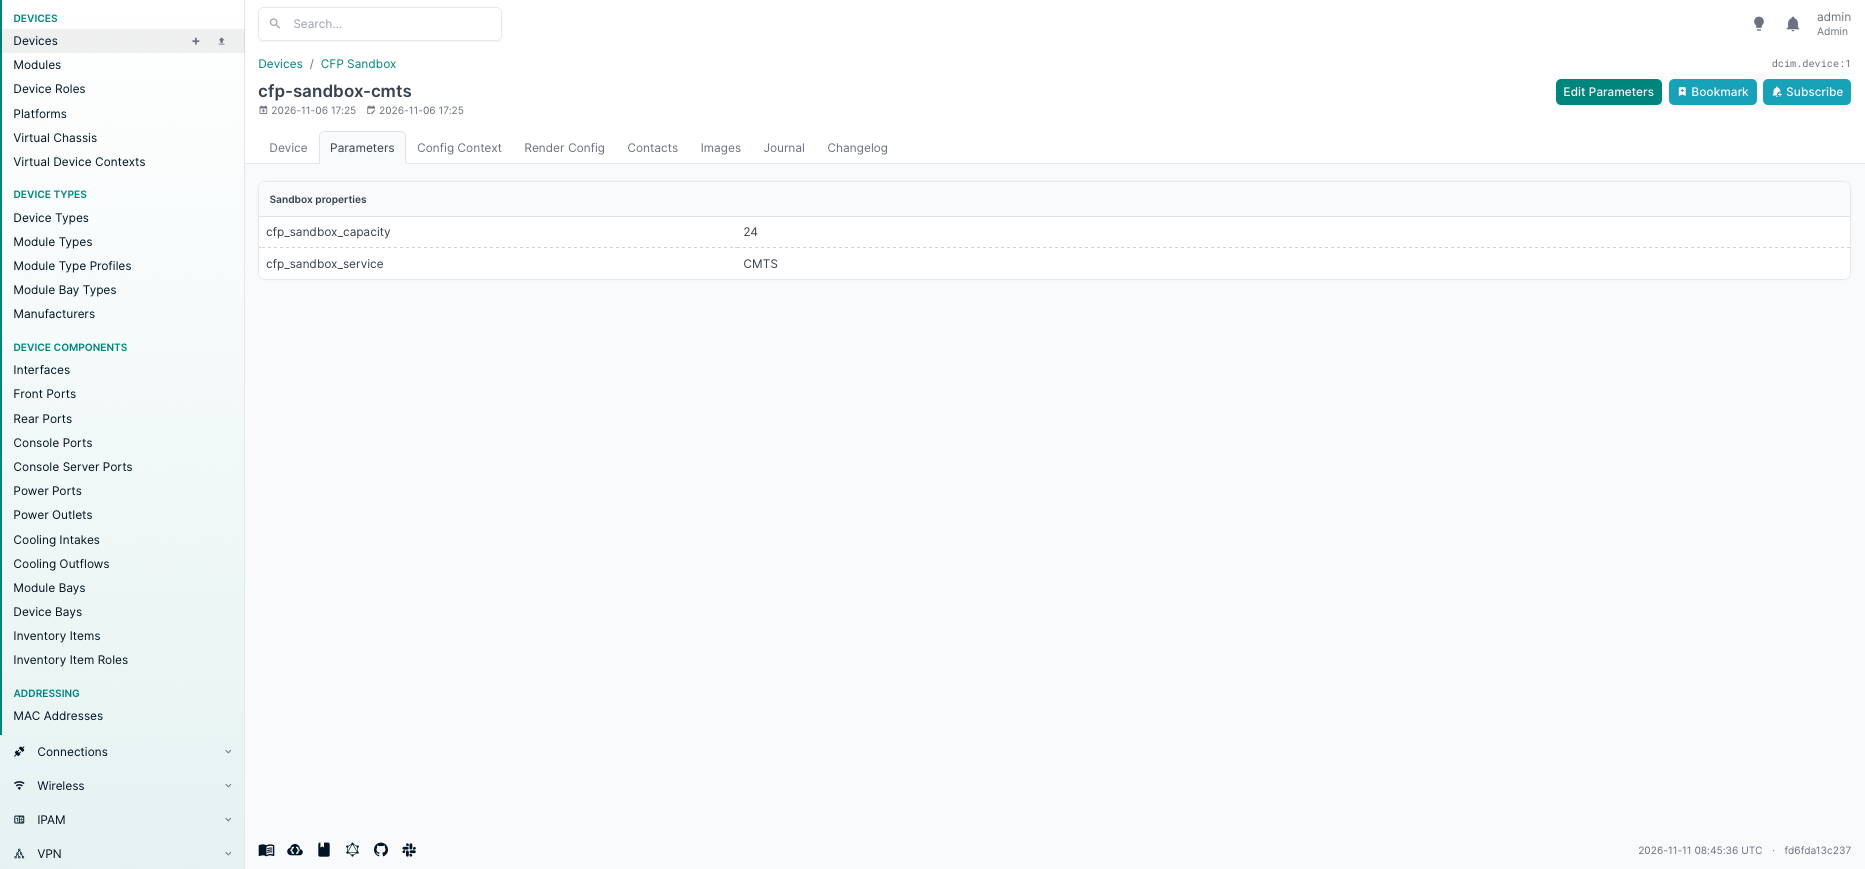
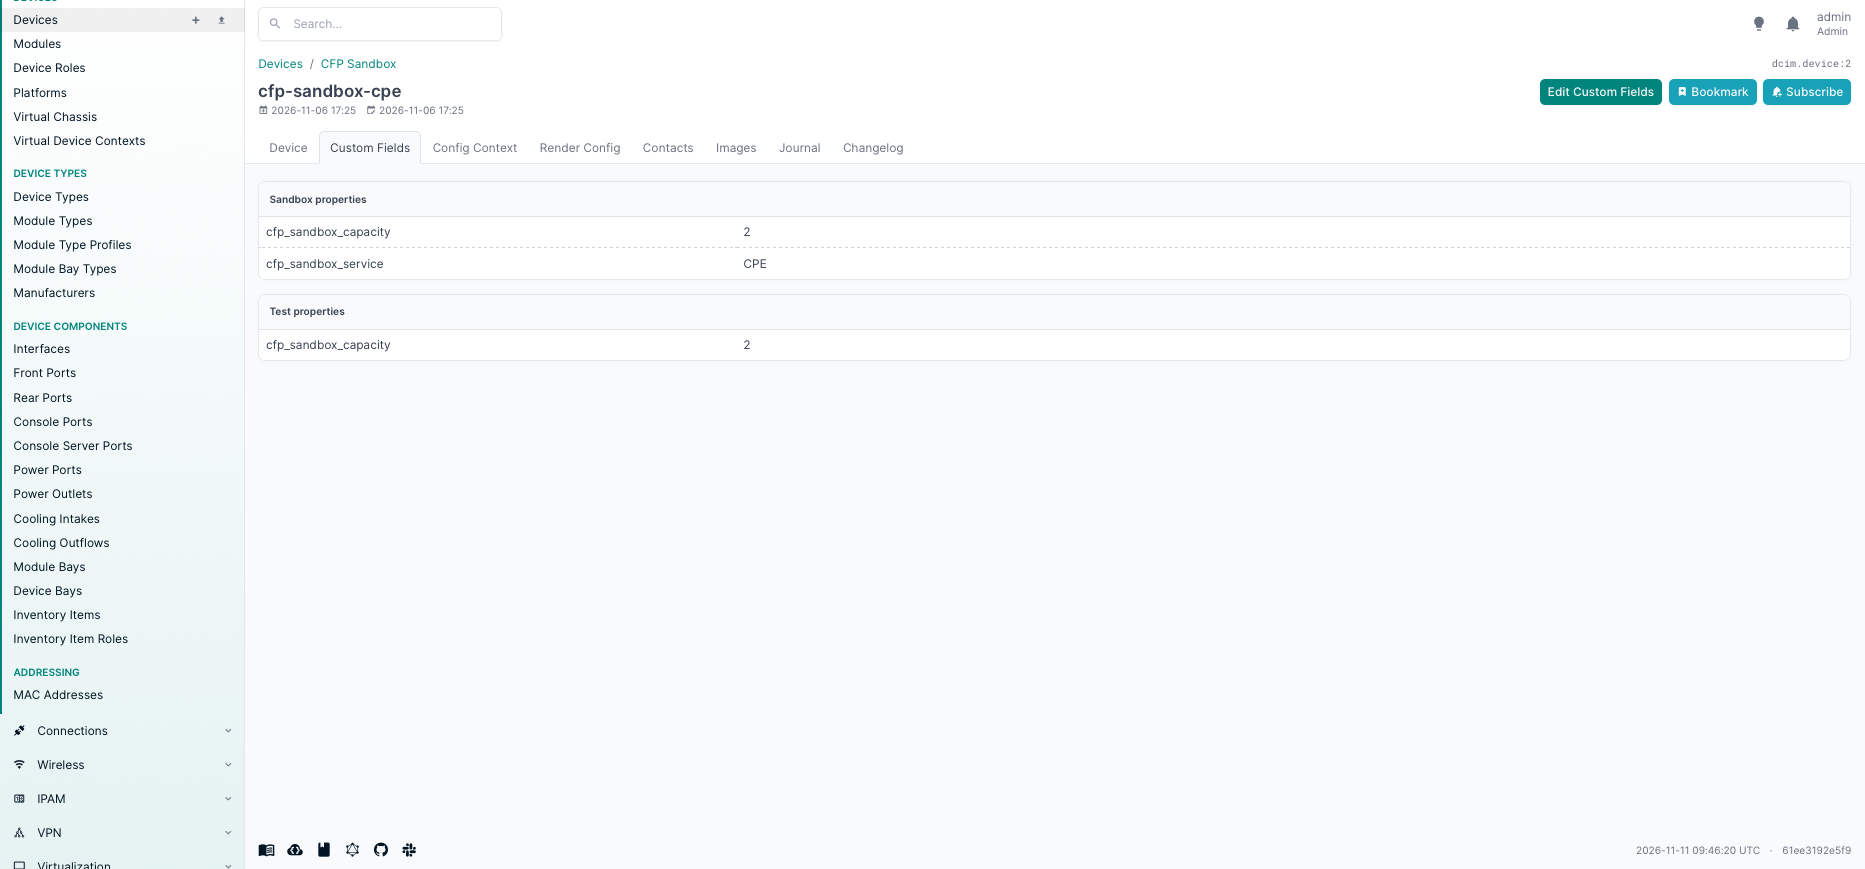
docs: refresh Custom Fields screenshot in README

diff --git a/docs/screenshots/README.md b/docs/screenshots/README.md
@@ -3,14 +3,12 @@
 Real screenshots supplied by Maarten Wallraf on 2026-11-11 from the NetBox 4.7.4
 Docker 5.1.1 sandbox, copied without image editing from `.screenshots/`.
 
-- `parameters-tab.png`: Device Parameters tab showing the Sandbox properties
-  section, native capacity/service values, and Edit Parameters action.
+- `parameters-tab.png`: CPE Device Custom Fields tab showing Sandbox properties
+  and Test properties sections, native capacity/service values, and the
+  Edit Custom Fields action. Source: `.screenshots/cfp-sandbox-cpe | NetBox.png`.
 - `profile-configuration.png`: profile editor showing Selected fields, a Device
   tag matching rule and field-order controls.
 
-The main README embeds the Parameters screenshot and places the taller profile
+The main README embeds the Custom Fields screenshot and places the taller profile
 editor screenshot in an expandable section. Keep these paths stable when
 replacing images. Use sample data suitable for public documentation.
-
-The Device capture predates the tab rename to **Custom Fields** and edit action
-rename to **Edit Custom Fields**; its visible Parameters labels are historical.

diff --git a/README.md b/README.md
@@ -25,9 +25,8 @@ continue to work with the same data.
 
 **Device Custom Fields:** a matching profile presents existing native field values,
 with one action to edit the relevant custom fields.
-The capture below predates the label change and shows “Parameters” / “Edit Parameters”.
 
-![Device tab showing the Sandbox properties section and the former Parameters and Edit Parameters labels](docs/screenshots/parameters-tab.png)
+![Device Custom Fields tab showing Sandbox properties and Test properties sections with the Edit Custom Fields action](docs/screenshots/parameters-tab.png)
 
 <details>
 <summary><strong>Profile configuration</strong> — field selection, order and matching rules</summary>
